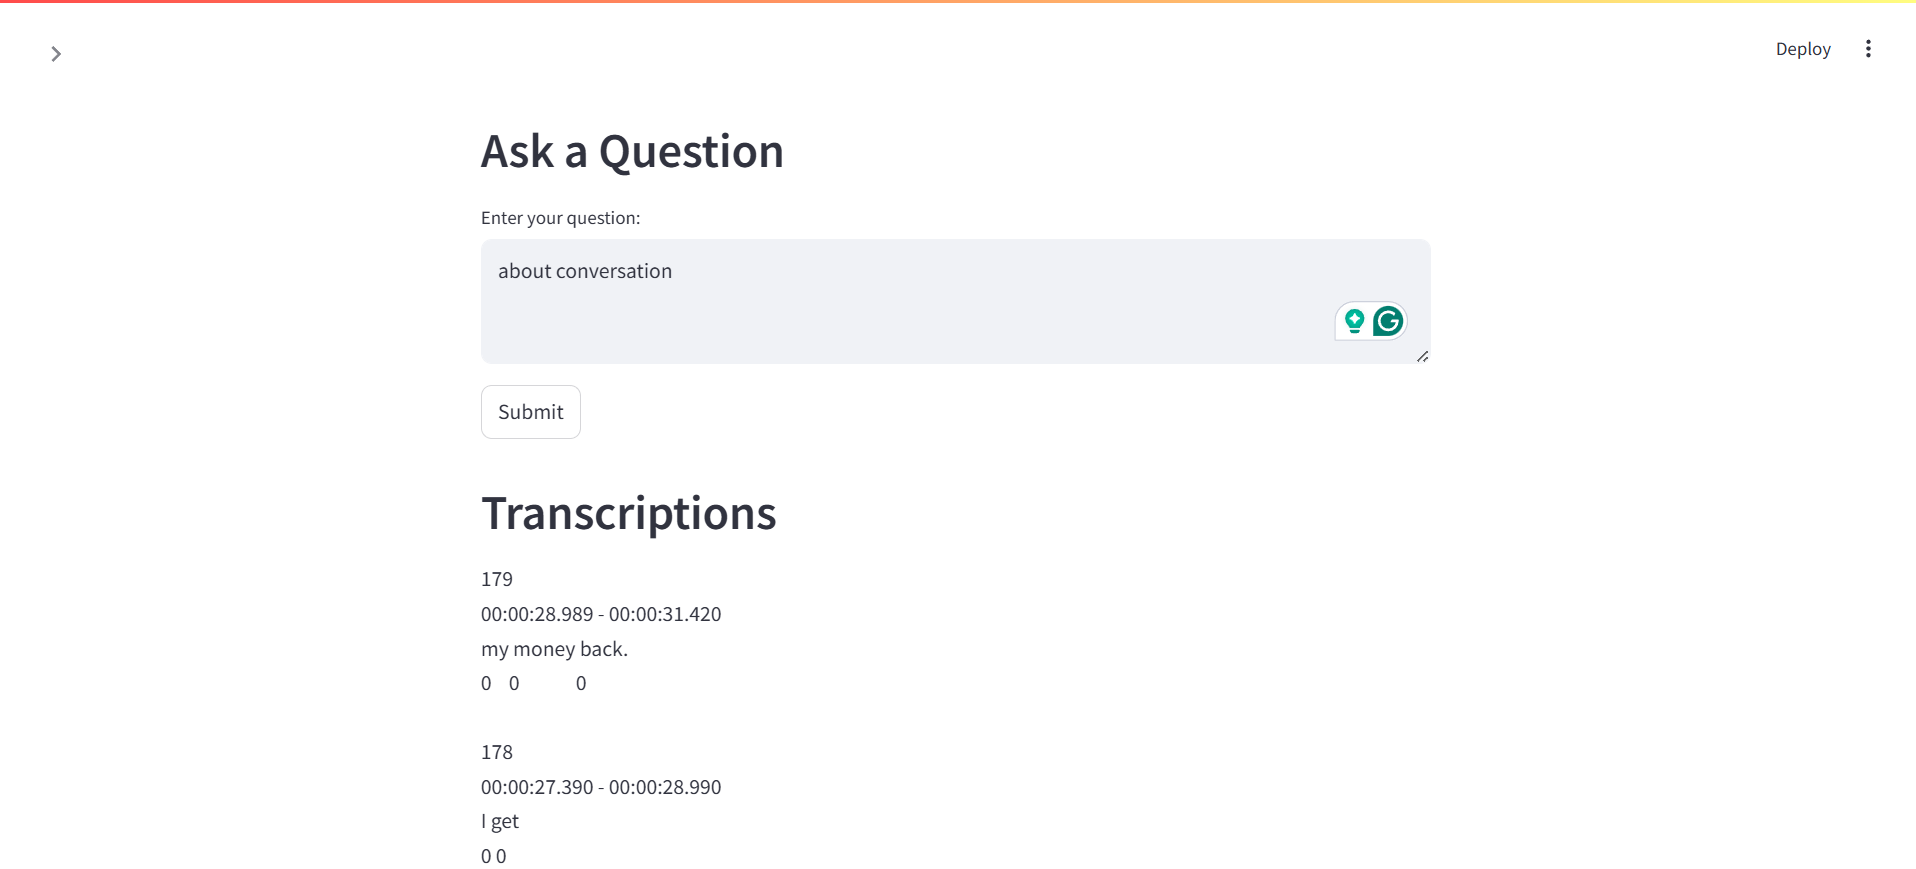
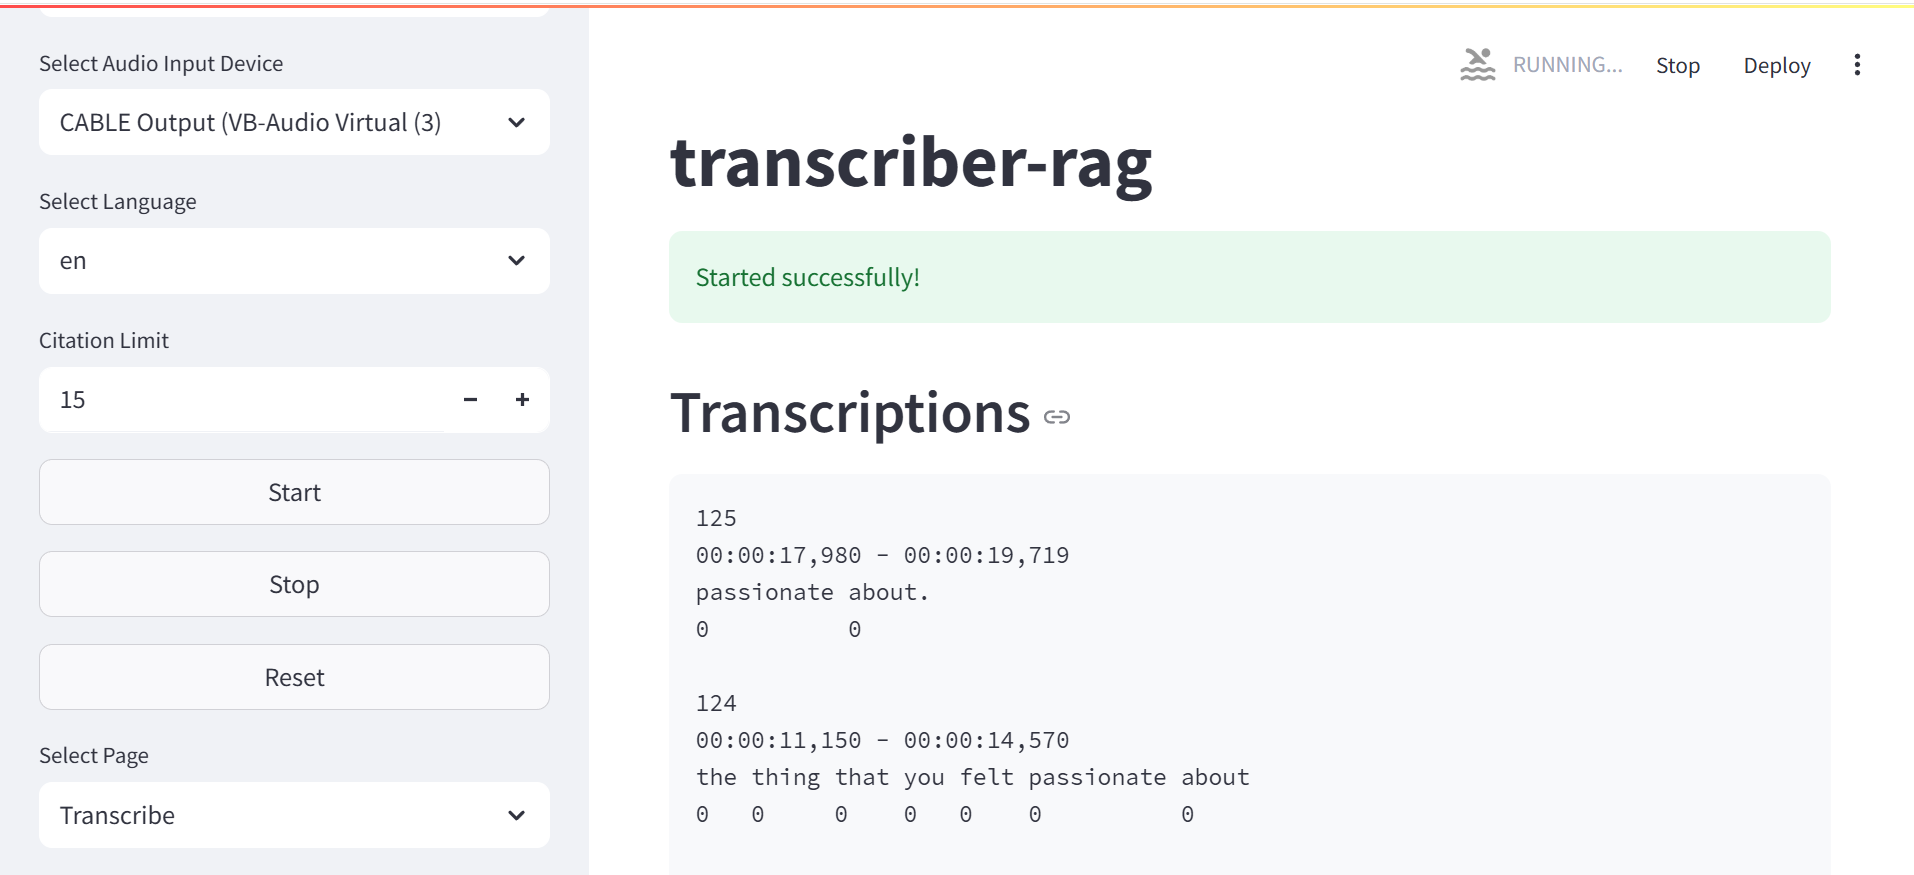
Improve transcription, ingestion, and page views.

diff --git a/app.py b/app.py
@@ -1,7 +1,8 @@
 import asyncio
-import math
 import os
+import time
 import uuid
+from datetime import datetime, timezone
 from typing import List, Tuple
 
 import nest_asyncio
@@ -51,55 +52,59 @@ transcriptions: List[LiveResultResponse] = st.session_state["transcriptions"]
 st.sidebar.header("Configuration")
 deepgram_api_key = st.sidebar.text_input("Deepgram API Key", type="password", value=os.getenv("DEEPGRAM_API_KEY"))
 cohere_api_key = st.sidebar.text_input("Cohere API Key", type="password", value=os.getenv("COHERE_API_KEY"))
-google_api_key = st.sidebar.text_input("Google Gemini API Key", type="password", value=os.getenv("GOOGLE_API_KEY"))
+google_api_key = st.sidebar.text_input("Google API Key", type="password", value=os.getenv("GOOGLE_API_KEY"))
 zilliz_uri = st.sidebar.text_input("Zilliz URI", value=os.getenv("ZILLIZ_URI"))
 zilliz_token = st.sidebar.text_input("Zilliz Token", type="password", value=os.getenv("ZILLIZ_TOKEN"))
 
 devices = get_audio_devices()
 input_devices = [f"{device['name']} ({device['index']})" for device in devices]
-selected_device = st.sidebar.selectbox("Select Audio Input Device", input_devices)
+selected_device = st.sidebar.selectbox("Audio Device", input_devices)
 
-languages = ["en", "id"]
-selected_language = st.sidebar.selectbox("Select Language", languages)
-
+languages = ["en", "id", "multi"]
+selected_language = st.sidebar.selectbox("Language", languages)
+collection_name = st.sidebar.text_input("Collection Name", value="transcriber_rag")
+ingestion_batch_size = st.sidebar.number_input("Ingestion Batch Size", value=15)
 citation_limit = st.sidebar.number_input("Citation Limit", value=15)
 
-if "embedder" not in st.session_state:
-    embedder = CohereEmbeddings(
-        model="embed-v4.0",
-        cohere_api_key=cohere_api_key,
-    )
-    st.session_state["embedder"] = embedder
-
-embedder = st.session_state["embedder"]
-
-if "vector_store" not in st.session_state:
-    vector_store = Milvus(
-        embedding_function=embedder,
-        connection_args={"uri": zilliz_uri, "token": zilliz_token},
-        collection_name="transcriber_rag",
-        enable_dynamic_field=True,
-        index_params={"metric_type": "COSINE"},
-        search_params={"metric_type": "COSINE"},
-    )
-    st.session_state["vector_store"] = vector_store
-
-vector_store = st.session_state["vector_store"]
+embedder = CohereEmbeddings(
+    model="embed-v4.0",
+    cohere_api_key=cohere_api_key,
+)
+vector_store = Milvus(
+    embedding_function=embedder,
+    connection_args={"uri": zilliz_uri, "token": zilliz_token},
+    collection_name=collection_name,
+    enable_dynamic_field=True,
+    index_params={"metric_type": "COSINE"},
+    search_params={"metric_type": "COSINE"},
+)
+llm = ChatGoogleGenerativeAI(
+    model="gemini-2.5-pro-exp-03-25",
+    google_api_key=google_api_key,
+)
 
 st.title("transcriber-rag")
 status = st.empty()
 
 
 class IngestionState(BaseModel):
-    chunk: LiveResultResponse = None
+    chunks: List[LiveResultResponse] = None
 
 
 async def store_chunk(state: IngestionState):
     document = Document(
         id=uuid.uuid4(),
-        page_content=state.chunk.channel.alternatives[0].transcript,
-        metadata=state.chunk.to_dict()
+        page_content="",
+        metadata={
+            "timestamp": datetime.now(timezone.utc).astimezone().isoformat(),
+            "sources": [],
+        }
     )
+
+    for chunk in state.chunks:
+        transcript = chunk.channel.alternatives[0].transcript
+        document.page_content = f"{document.page_content} {transcript}"
+        document.metadata["sources"].append(chunk.to_dict())
 
     await vector_store.aadd_documents(
         ids=[document.id],
@@ -128,10 +133,6 @@ async def retrieve_documents(state: QNAState):
 
 
 async def generate_answer(state: QNAState):
-    llm = ChatGoogleGenerativeAI(
-        model="gemini-2.5-pro-exp-03-25",
-        google_api_key=google_api_key,
-    )
     citations = []
     for index, (document, score) in enumerate(state.documents):
         citation = {
@@ -189,29 +190,6 @@ qna_graph.set_finish_point("generate")
 qna_app = qna_graph.compile()
 
 
-@st.dialog(title="Citation Details", width="large")
-def citation_details(document: Document):
-    st.write(document.model_dump())
-
-
-st.header("Ask a Question")
-question = st.text_area("Enter your question:")
-if st.button("Submit"):
-    qna_state = QNAState()
-    qna_state.query = question
-    result = loop.run_until_complete(qna_app.ainvoke(qna_state))
-    st.write("**Answer:**")
-    st.write(result["answer"])
-    st.write("**Citations:**")
-    for index, (document, score) in enumerate(result["documents"]):
-        if st.button(label=f"Citation {index + 1}: {score}"):
-            citation_details(document)
-        st.text(document.page_content)
-
-st.header("Transcriptions")
-transcription_container = st.empty()
-
-
 async def transcribe_audio():
     device_info = None
     for device in devices:
@@ -223,9 +201,8 @@ async def transcribe_audio():
         st.error("Selected audio device not found.")
         return
 
-    dtype = 'int16'
     format = pyaudio.paInt16
-    chunk = 1024 * 16
+    chunk = 1024 * 8
     sample_rate = int(device_info["defaultSampleRate"])
     channels = device_info["maxInputChannels"]
     config = DeepgramClientOptions(verbose=verboselogs.DEBUG, options={"keepalive": "true"})
@@ -234,7 +211,7 @@ async def transcribe_audio():
     deepgram_options: LiveOptions = LiveOptions(
         diarize=True,
         language=selected_language,
-        model="nova-3",
+        model="nova-3" if selected_language in ["multi", "en"] else "nova-2",
         no_delay=True,
         encoding="linear16",
         sample_rate=sample_rate,
@@ -244,22 +221,29 @@ async def transcribe_audio():
     connection = deepgram_client.listen.asyncwebsocket.v("1")
 
     async def on_message(self, result: LiveResultResponse, **kwargs):
-        if len(result.channel.alternatives) == 0:
-            return
-
-        if result.channel.alternatives[0].transcript == "":
+        if (
+                len(result.channel.alternatives) == 0
+                or result.is_final is False
+                or result.channel.alternatives[0].transcript == ""
+        ):
             return
 
         transcriptions.append(result)
-        ingestion_state = IngestionState()
-        ingestion_state.chunk = result
-        await ingestion_app.ainvoke(ingestion_state)
+
+        if len(transcriptions) % ingestion_batch_size == 0:
+            ingestion_state = IngestionState()
+            ingestion_state.chunks = transcriptions[-ingestion_batch_size:]
+            await ingestion_app.ainvoke(ingestion_state)
 
     async def on_error(self, error, **kwargs):
         print(f"Handled Error: {error}")
 
+    async def on_close(self, close, **kwargs):
+        print(f"Handled Close: {close}")
+
     connection.on(LiveTranscriptionEvents.Transcript, on_message)
     connection.on(LiveTranscriptionEvents.Error, on_error)
+    connection.on(LiveTranscriptionEvents.Close, on_close)
 
     await connection.start(options=deepgram_options)
 
@@ -291,50 +275,9 @@ def subtitle_time_formatter(seconds, separator):
     return f"{hours:02}:{minutes:02}:{secs:02}{separator}{millis:03}"
 
 
-async def update_transcriptions():
-    while True:
-        if st.session_state.get("stop", False):
-            break
-
-        with transcription_container:
-            subtitles = []
-            for index, transcription in enumerate(transcriptions):
-                start = transcription.start
-                end = start + transcription.duration
-                alternative = transcription.channel.alternatives[0]
-                words = alternative.words
-
-                # attaching speaker diarization below transcript words
-                transcript_words = []
-                transcript_speakers = []
-                for word in words:
-                    speaker = str(word.speaker)
-                    suffix = "   " * (int(math.fabs(len(word.punctuated_word) - len(speaker))))
-                    transcript_speaker = speaker if len(speaker) >= len(word.punctuated_word) else speaker + suffix
-                    transcript_speakers.append(transcript_speaker)
-                    if len(word["punctuated_word"]) >= len(speaker):
-                        transcript_word = word["punctuated_word"]
-                    else:
-                        transcript_word = word["punctuated_word"] + suffix
-                    transcript_words.append(transcript_word)
-
-                separator = "."
-                subtitle = (
-                    f"{index + 1}\n"
-                    f"{subtitle_time_formatter(start, separator)} - {subtitle_time_formatter(end, separator)}\n"
-                    f"{' '.join(transcript_words)}\n"
-                    f"{' '.join(transcript_speakers)}\n"
-                )
-                subtitles.insert(0, subtitle)
-
-            st.text("\n".join(subtitles))
-        await asyncio.sleep(1)
-
-
 if st.sidebar.button("Start", use_container_width=True):
     st.session_state["stop"] = False
     loop.run_until_complete(transcribe_audio())
-    loop.run_until_complete(update_transcriptions())
 
     with status:
         st.success("Started successfully!")
@@ -361,3 +304,83 @@ if st.sidebar.button("Reset", use_container_width=True):
 
     with status:
         st.success("Reset successfully!")
+
+
+def transcribe_page():
+    st.header("Transcribe")
+    transcription_container = st.empty()
+
+    while True:
+        if st.session_state.get("stop", True):
+            st.text("No transcriptions yet, please start it first.")
+            break
+
+        with transcription_container:
+            subtitles = []
+            for index, transcription in enumerate(transcriptions):
+                start = transcription.start
+                end = start + transcription.duration
+                alternative = transcription.channel.alternatives[0]
+                words = alternative.words
+
+                # attaching speaker diarization below transcript words
+                # Create aligned display of words and speakers using monospace formatting
+                transcript_text = ""
+                words_line = ""
+                speakers_line = ""
+
+                for i, word in enumerate(words):
+                    padding = max(len(word.punctuated_word), len(str(word.speaker)))
+                    formatted_word = f"{word.punctuated_word:<{padding}} "
+                    formatted_speaker = f"{str(word.speaker):<{padding}} "
+
+                    words_line += formatted_word
+                    speakers_line += formatted_speaker
+
+                transcript_text = f"{words_line}\n{speakers_line}"
+
+                separator = ","
+                subtitle = (
+                    f"{index + 1}\n"
+                    f"{subtitle_time_formatter(start, separator)} - {subtitle_time_formatter(end, separator)}\n"
+                    f"{transcript_text}\n"
+                )
+                subtitles.insert(0, subtitle)
+
+            # Use markdown with code block to ensure monospace font for alignment
+            st.markdown("```\n" + "\n".join(subtitles) + "\n```")
+        time.sleep(1)
+
+
+@st.dialog(title="Citation Details", width="large")
+def citation_details(document: Document):
+    st.write(document.model_dump())
+
+
+def qna_page():
+    st.header("Question Answering")
+    question = st.text_area("Enter your question:")
+    if st.button("Submit"):
+        qna_state = QNAState()
+        qna_state.query = question
+        result = loop.run_until_complete(qna_app.ainvoke(qna_state))
+        st.session_state["qna_result"] = result
+
+    if "qna_result" in st.session_state:
+        result = st.session_state["qna_result"]
+        st.write("**Answer:**")
+        st.write(result["answer"])
+        st.write("**Citations:**")
+        for index, (document, score) in enumerate(result["documents"]):
+            if st.button(label=f"Citation {index + 1}: {score}"):
+                citation_details(document)
+            st.text(document.page_content)
+
+
+pages = {
+    "Transcribe": transcribe_page,
+    "Question Answering": qna_page,
+}
+
+selected_page = st.sidebar.selectbox("Page", list(pages.keys()), index=0)
+pages[selected_page]()

diff --git a/README.md b/README.md
@@ -1,6 +1,6 @@
 # transcriber-rag
 
-> A simple speech transcriber with RAG application using Deepgram and LangChain.
+> A simple voice transcriber with RAG application using Deepgram and LangChain.
 
 ## Tutorial
 
@@ -21,3 +21,4 @@ streamlit run app.py
 ## Demonstration
 
 ![img-1.png](assets/img-1.png)
+![img-2.png](assets/img-2.png)
